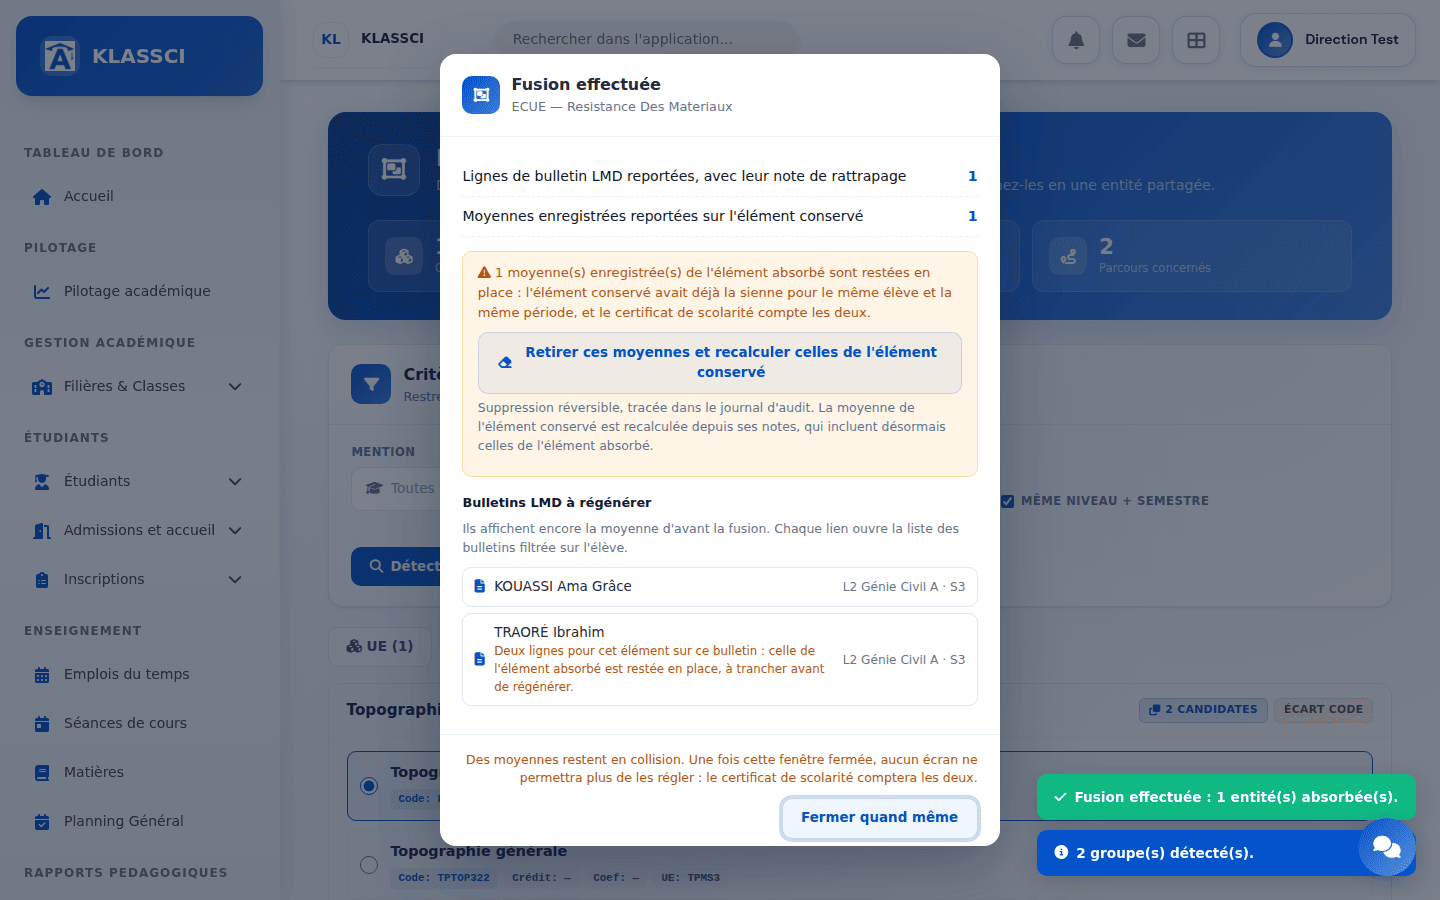
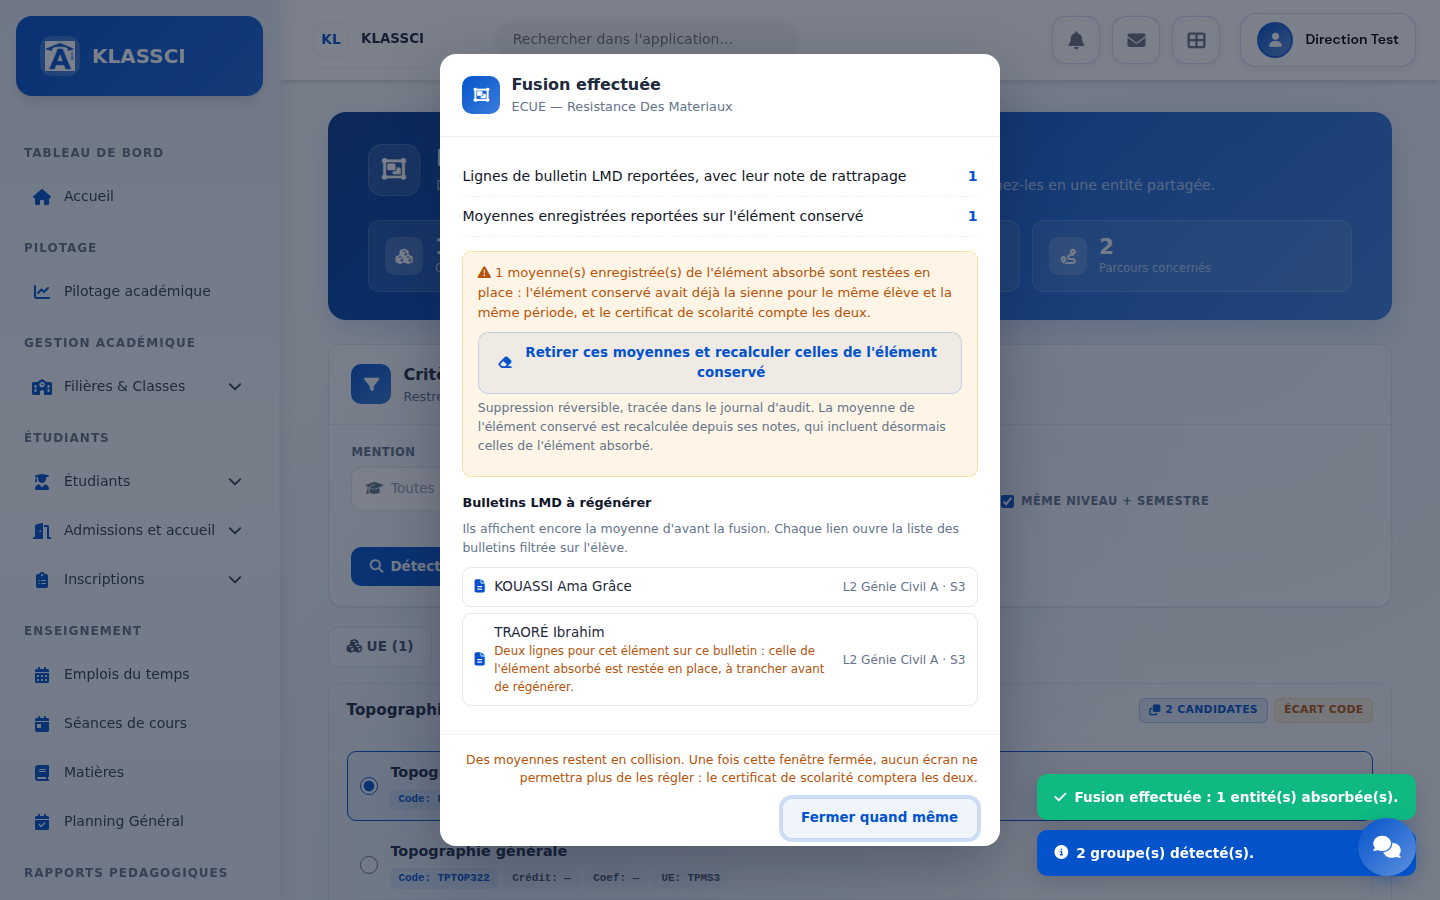
docs(lmd): captures de la fusion d'ECUE refaites sur le code intégré
L'aperçu de #1145 ne compte plus les lignes en collision : la capture 10
montrait l'ancien décompte.

Changed region(s): [[0.875, 0.7778, 0.9375, 0.8089]]

diff --git a/docs/audits/2026-09-22-preuves-fusion-ecue.md b/docs/audits/2026-09-22-preuves-fusion-ecue.md
@@ -41,13 +41,13 @@ Aucune erreur JavaScript relevée pendant les deux parcours.
 
 ## 2. Moyennes enregistrées et collision — rejoué le 23 septembre 2026
 
-Même application locale, code de `presentation` après la fusion de #1122. Jeu de
+Même application locale, code de `presentation` après la fusion de #1122 et de #1145. Jeu de
 données ajouté : KOUASSI a une moyenne sur les deux éléments (collision), TRAORÉ
 seulement sur l'élément absorbé.
 
 | capture | ce qu'elle montre |
 |---|---|
-| ![](assets/deplacements-notes-2026-09/10-apercu-avec-moyennes-enregistrees.png) | L'aperçu compte les moyennes enregistrées reportées avec « Forcer ». |
+| ![](assets/deplacements-notes-2026-09/10-apercu-avec-moyennes-enregistrees.png) | L'aperçu annonce ce que la fusion reportera vraiment (#1145) : 1 ligne de bulletin LMD et 1 moyenne enregistrée, la ligne en collision n'étant pas comptée. Le compte rendu (capture suivante) confirme les mêmes chiffres. |
 | ![](assets/deplacements-notes-2026-09/11-fusion-effectuee-collision.png) | Après la fusion : la moyenne de TRAORÉ est reportée, celle de KOUASSI est en collision, avec le bouton qui la règle. |
 | ![](assets/deplacements-notes-2026-09/12-fusion-effectuee-collision-400px.png) | Le même compte rendu à 400 px. |
 | ![](assets/deplacements-notes-2026-09/13-fermer-demande-confirmation.png) | Échap et le clic à côté laissent la fenêtre ouverte ; « Fermer » demande confirmation et dit ce qui restera. |
